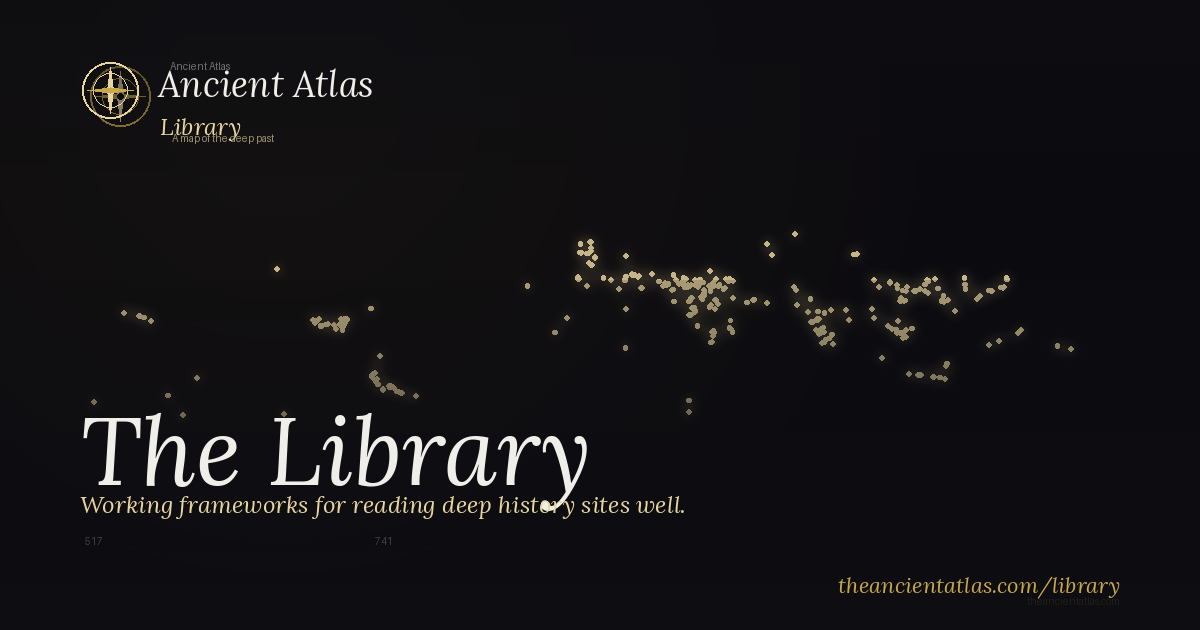
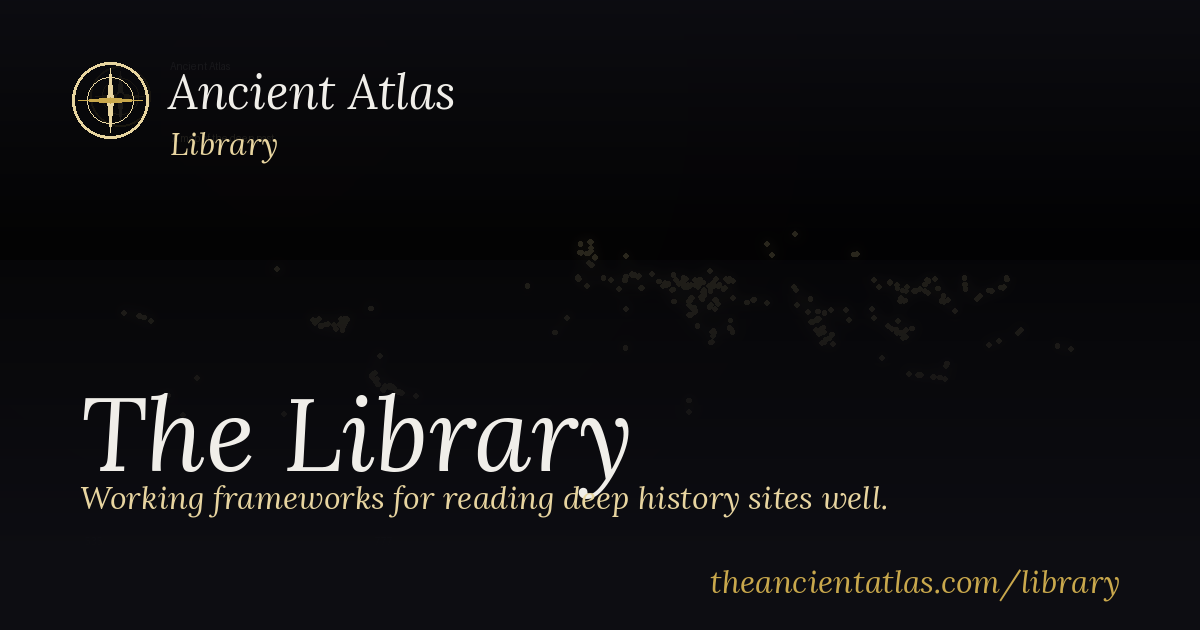
Library OG cards v3: bump small-text sizes for iMessage readability
Jeff feedback on v2: cards look great at full size but the brand
wordmark, Library subtitle, ENTRY tag, article subtitle, and URL stamp
all fall below readability when iMessage downscales the 1200x630 card
to its chat-bubble thumbnail (~300x157).

v3 bumps every small-text element by ~40-60% in source resolution so it
survives the downscale. Compass mark radius and ENTRY pill geometry
scaled to match. The photograph treatment, gradient overlay, and Look-
Closer-matched toast all preserved unchanged.

Also fixed the hub card: previous version showed bleed-through from the
underlying global og-image (Ancient Atlas wordmark + 535/777 stats
visible as ghosts under the new chrome). v3 darkens the global to 0.18
brightness with a heavier top+bottom gradient mask so only the world-
map dot constellation survives as atmospheric background, with no
competing text or numbers.

diff --git a/scripts/generate-library-og-images.py b/scripts/generate-library-og-images.py
@@ -65,37 +65,40 @@ TITLE_FONT = load_font([
     "/Library/Fonts/Fraunces-Bold.ttf",
     "/usr/share/fonts/truetype/google-fonts/Lora-Italic-Variable.ttf",
     "/usr/share/fonts/truetype/dejavu/DejaVuSerif-Bold.ttf",
-], 78)
+], 86)
 TITLE_FONT_SHORT = load_font([
     "/System/Library/Fonts/Supplemental/Times New Roman Bold.ttf",
     "/Library/Fonts/Fraunces-Bold.ttf",
     "/usr/share/fonts/truetype/google-fonts/Lora-Italic-Variable.ttf",
     "/usr/share/fonts/truetype/dejavu/DejaVuSerif-Bold.ttf",
-], 96)
+], 104)
+# Bumped small-text sizes for iMessage downscale readability.
+# iMessage renders OG cards at ~300x157 in the chat bubble, so anything
+# below ~30px in the source becomes unreadable. v3 sizes:
 BRAND_FONT = load_font([
     "/System/Library/Fonts/Supplemental/Times New Roman Bold.ttf",
     "/Library/Fonts/Fraunces-Bold.ttf",
     "/usr/share/fonts/truetype/google-fonts/Lora-Italic-Variable.ttf",
     "/usr/share/fonts/truetype/dejavu/DejaVuSerif-Bold.ttf",
-], 36)
+], 48)
 ITALIC_FONT = load_font([
     "/System/Library/Fonts/Supplemental/Times New Roman Italic.ttf",
     "/Library/Fonts/Fraunces-Italic.ttf",
     "/usr/share/fonts/truetype/google-fonts/Lora-Italic-Variable.ttf",
     "/usr/share/fonts/truetype/dejavu/DejaVuSerif.ttf",
-], 24)
+], 32)
 MONO_TAG = load_font([
     "/System/Library/Fonts/Menlo.ttc",
     "/System/Library/Fonts/Monaco.ttc",
     "/usr/share/fonts/truetype/dejavu/DejaVuSansMono.ttf",
     "/System/Library/Fonts/Courier.ttc",
-], 14)
+], 22)
 MONO_URL = load_font([
     "/System/Library/Fonts/Supplemental/Times New Roman Italic.ttf",
     "/Library/Fonts/Fraunces-Italic.ttf",
     "/usr/share/fonts/truetype/google-fonts/Lora-Italic-Variable.ttf",
     "/usr/share/fonts/truetype/dejavu/DejaVuSerif.ttf",
-], 22)
+], 32)
 
 # ============================================================
 # Photo-background card composition
@@ -160,29 +163,29 @@ def wrap_text(text, font, max_width, draw):
 def compose_photo_card(photo_path, title, subtitle, entry_num):
     """Magazine-cover treatment: photo, gradient, brand chrome, title."""
     bg = cover_crop(photo_path)
-    bg = darken(bg, factor=0.72)
+    bg = darken(bg, factor=0.68)
     img = apply_gradient_overlay(bg)
     draw = ImageDraw.Draw(img, 'RGBA')
 
-    # Top brand chrome
-    draw_compass(draw, 110, 90, 28, color=CHAMPAGNE_PALE, weight=2)
-    draw.text((158, 60), "Ancient Atlas", font=BRAND_FONT, fill=IVORY)
-    draw.text((160, 110), "Library", font=ITALIC_FONT, fill=CHAMPAGNE_PALE)
+    # Top brand chrome — sized for iMessage readability
+    draw_compass(draw, 110, 100, 38, color=CHAMPAGNE_PALE, weight=3)
+    draw.text((168, 60), "Ancient Atlas", font=BRAND_FONT, fill=IVORY)
+    draw.text((170, 122), "Library", font=ITALIC_FONT, fill=CHAMPAGNE_PALE)
 
     # Entry tag pill (top-right)
     if entry_num is not None:
         tag = f"ENTRY {entry_num:02d}"
-        pad_x, pad_y = 16, 8
+        pad_x, pad_y = 22, 12
         bbox = draw.textbbox((0, 0), tag, font=MONO_TAG)
         tw, th = bbox[2] - bbox[0], bbox[3] - bbox[1]
         x0 = W - 80 - tw - pad_x * 2
         y0 = 78
         draw.rounded_rectangle(
             (x0, y0, x0 + tw + pad_x * 2, y0 + th + pad_y * 2),
-            radius=18,
+            radius=26,
             outline=CHAMPAGNE_PALE,
-            fill=(13, 13, 18, 120),
-            width=2,
+            fill=(13, 13, 18, 160),
+            width=3,
         )
         draw.text((x0 + pad_x, y0 + pad_y - 2), tag,
                   font=MONO_TAG, fill=CHAMPAGNE_PALE)
@@ -190,24 +193,24 @@ def compose_photo_card(photo_path, title, subtitle, entry_num):
     # Big serif title in the bottom third
     use_font = TITLE_FONT_SHORT if len(title) < 18 else TITLE_FONT
     title_lines = wrap_text(title, use_font, 1040, draw)
-    line_h = 92 if use_font == TITLE_FONT_SHORT else 84
-    total_h = line_h * len(title_lines) + (40 if subtitle else 0)
-    y = H - 110 - total_h
+    line_h = 100 if use_font == TITLE_FONT_SHORT else 92
+    total_h = line_h * len(title_lines) + (44 if subtitle else 0)
+    y = H - 120 - total_h
     for line in title_lines:
         draw.text((80, y), line, font=use_font, fill=IVORY)
         y += line_h
     if subtitle:
-        y += 8
+        y += 10
         sub_lines = wrap_text(subtitle, ITALIC_FONT, 1040, draw)
         for line in sub_lines:
             draw.text((80, y), line, font=ITALIC_FONT, fill=CHAMPAGNE_PALE)
-            y += 32
+            y += 42
 
     # URL stamp bottom-right
     url = "theancientatlas.com/library"
     bbox = draw.textbbox((0, 0), url, font=MONO_URL)
     tw = bbox[2] - bbox[0]
-    draw.text((W - 80 - tw, H - 60), url, font=MONO_URL, fill=CHAMPAGNE)
+    draw.text((W - 80 - tw, H - 70), url, font=MONO_URL, fill=CHAMPAGNE)
 
     return img.convert('RGB')
 
@@ -233,21 +236,21 @@ def compose_atmospheric_vector(title, subtitle, entry_num, mark_fn):
     img = Image.blend(img, glow, 0.65)
 
     draw = ImageDraw.Draw(img, 'RGBA')
-    # Top brand chrome
-    draw_compass(draw, 110, 90, 28, color=CHAMPAGNE_PALE, weight=2)
-    draw.text((158, 60), "Ancient Atlas", font=BRAND_FONT, fill=IVORY)
-    draw.text((160, 110), "Library", font=ITALIC_FONT, fill=CHAMPAGNE_PALE)
+    # Top brand chrome — sized for iMessage readability
+    draw_compass(draw, 110, 100, 38, color=CHAMPAGNE_PALE, weight=3)
+    draw.text((168, 60), "Ancient Atlas", font=BRAND_FONT, fill=IVORY)
+    draw.text((170, 122), "Library", font=ITALIC_FONT, fill=CHAMPAGNE_PALE)
     # Entry tag
     if entry_num is not None:
         tag = f"ENTRY {entry_num:02d}"
-        pad_x, pad_y = 16, 8
+        pad_x, pad_y = 22, 12
         bbox = draw.textbbox((0, 0), tag, font=MONO_TAG)
         tw, th = bbox[2] - bbox[0], bbox[3] - bbox[1]
         x0 = W - 80 - tw - pad_x * 2
         y0 = 78
         draw.rounded_rectangle(
             (x0, y0, x0 + tw + pad_x * 2, y0 + th + pad_y * 2),
-            radius=18, outline=CHAMPAGNE_PALE, width=2,
+            radius=26, outline=CHAMPAGNE_PALE, width=3,
         )
         draw.text((x0 + pad_x, y0 + pad_y - 2), tag,
                   font=MONO_TAG, fill=CHAMPAGNE_PALE)
@@ -259,22 +262,22 @@ def compose_atmospheric_vector(title, subtitle, entry_num, mark_fn):
     # Title block
     use_font = TITLE_FONT_SHORT if len(title) < 18 else TITLE_FONT
     title_lines = wrap_text(title, use_font, 720, draw)
-    line_h = 92 if use_font == TITLE_FONT_SHORT else 84
-    total_h = line_h * len(title_lines) + 40
-    y = (H - total_h) // 2 + 20
+    line_h = 100 if use_font == TITLE_FONT_SHORT else 92
+    total_h = line_h * len(title_lines) + 44
+    y = (H - total_h) // 2 + 24
     for line in title_lines:
         draw.text((80, y), line, font=use_font, fill=IVORY)
         y += line_h
-    y += 6
+    y += 8
     for line in wrap_text(subtitle, ITALIC_FONT, 720, draw):
         draw.text((80, y), line, font=ITALIC_FONT, fill=CHAMPAGNE_PALE)
-        y += 32
+        y += 42
 
     # URL stamp
     url = "theancientatlas.com/library"
     bbox = draw.textbbox((0, 0), url, font=MONO_URL)
     tw = bbox[2] - bbox[0]
-    draw.text((W - 80 - tw, H - 60), url, font=MONO_URL, fill=CHAMPAGNE)
+    draw.text((W - 80 - tw, H - 70), url, font=MONO_URL, fill=CHAMPAGNE)
     return img.convert('RGB')
 
 def mark_stone_circle(draw):
@@ -314,38 +317,48 @@ def compose_hub_card():
     if global_og.exists():
         bg = Image.open(global_og).convert('RGB')
         bg = bg.resize((W, H), Image.LANCZOS)
-        bg = darken(bg, factor=0.85)
-        img = apply_gradient_overlay(bg)
+        bg = darken(bg, factor=0.18)  # Heavy darken — only the dot constellation should remain
+        # Stronger top + bottom bands to fully hide the underlying chrome
+        overlay = Image.new('RGBA', (W, H), (0, 0, 0, 0))
+        od = ImageDraw.Draw(overlay)
+        for y in range(0, 240):
+            alpha = int(230 * (1 - y / 240))
+            od.line([(0, y), (W, y)], fill=(13, 13, 18, alpha))
+        for y in range(260, H):
+            progress = (y - 260) / (H - 260)
+            alpha = int(80 + 220 * progress)
+            od.line([(0, y), (W, y)], fill=(13, 13, 18, min(255, alpha)))
+        img = Image.alpha_composite(bg.convert('RGBA'), overlay).convert('RGB')
     else:
         img = compose_atmospheric_vector("The Library",
                                          "Working frameworks for reading deep history.",
                                          None, None)
         return img
     draw = ImageDraw.Draw(img, 'RGBA')
-    draw_compass(draw, 110, 90, 28, color=CHAMPAGNE_PALE, weight=2)
-    draw.text((158, 60), "Ancient Atlas", font=BRAND_FONT, fill=IVORY)
-    draw.text((160, 110), "Library", font=ITALIC_FONT, fill=CHAMPAGNE_PALE)
+    draw_compass(draw, 110, 100, 38, color=CHAMPAGNE_PALE, weight=3)
+    draw.text((168, 60), "Ancient Atlas", font=BRAND_FONT, fill=IVORY)
+    draw.text((170, 122), "Library", font=ITALIC_FONT, fill=CHAMPAGNE_PALE)
 
     # Title
     title = "The Library"
     subtitle = "Working frameworks for reading deep history sites well."
     use_font = TITLE_FONT_SHORT
     title_lines = wrap_text(title, use_font, 1040, draw)
-    line_h = 92
-    total_h = line_h * len(title_lines) + 40
-    y = H - 110 - total_h
+    line_h = 100
+    total_h = line_h * len(title_lines) + 44
+    y = H - 120 - total_h
     for line in title_lines:
         draw.text((80, y), line, font=use_font, fill=IVORY)
         y += line_h
-    y += 8
+    y += 10
     for line in wrap_text(subtitle, ITALIC_FONT, 1040, draw):
         draw.text((80, y), line, font=ITALIC_FONT, fill=CHAMPAGNE_PALE)
-        y += 32
+        y += 42
 
     url = "theancientatlas.com/library"
     bbox = draw.textbbox((0, 0), url, font=MONO_URL)
     tw = bbox[2] - bbox[0]
-    draw.text((W - 80 - tw, H - 60), url, font=MONO_URL, fill=CHAMPAGNE)
+    draw.text((W - 80 - tw, H - 70), url, font=MONO_URL, fill=CHAMPAGNE)
     return img.convert('RGB')
 
 # ============================================================
